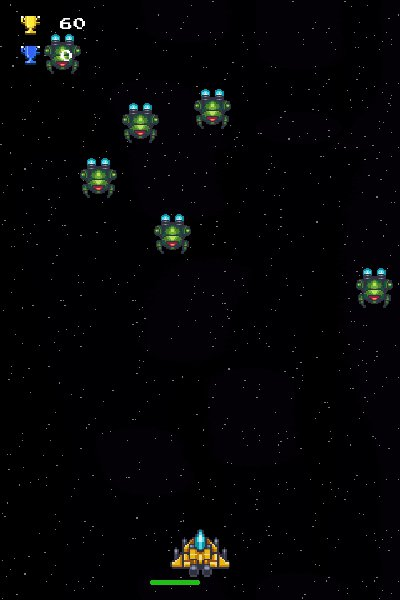
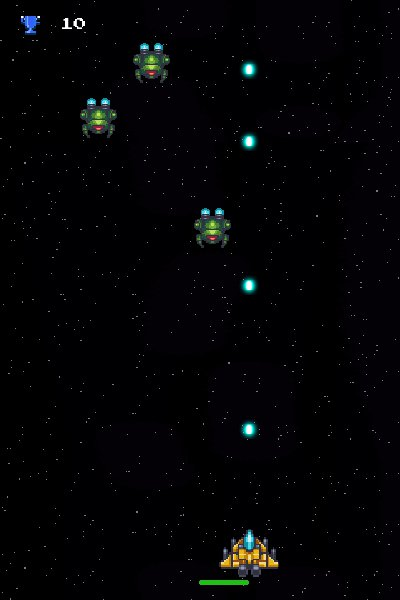
Score jeu et vie du joueur

diff --git a/main.py b/main.py
@@ -195,8 +195,8 @@ class Player(pygame.sprite.Sprite):
     def __init__(self, game):
         super().__init__()
         self.game = game
-        self.health = 50
-        self.max_health = 50
+        self.health = 100
+        self.max_health = 100
         self.attack = 15
         self.velocity = 7
         self.score = 0
@@ -568,8 +568,9 @@ def main_menu():
             
         pygame.display.update()
 
-
+color="White"
 def jeu():
+    global color
     global score
     #Musique de fond#    
     mixer.music.load('sounds/10 Drummed vaus.mp3')
@@ -624,20 +625,17 @@ def jeu():
             over_menu()
 
         #Affichage du score #
-        best_score = pygame.transform.scale(best_score,(20,20))
         prec_score = pygame.transform.scale(prec_score,(20,20))
-        Score_TEXT = get_font(13).render((str(game.player.score)), True, "white" )
-        Score_RECT = Score_TEXT.get_rect(topleft=(60, 50))
-        bestscore_RECT = best_score.get_rect(topleft=(60, 18))
+        Score_TEXT = get_font(13).render((str(game.player.score)), True, color )
+        Score_RECT = Score_TEXT.get_rect(topleft=(60, 18))
         
         if game.player.score > int(saveread("bestscore")):
             bestscore_TEXT = Score_TEXT
+            color="Red"
 
-
-        screen.blit(prec_score,(20,45))
-        screen.blit(best_score,(20,15))
+        screen.blit(prec_score,(20,15))
         screen.blit(Score_TEXT, Score_RECT)
-        screen.blit(bestscore_TEXT, bestscore_RECT)
+        
 
         #récupérer tout les projectiles du joueur #
         for projectile in game.player.all_projectiles :
